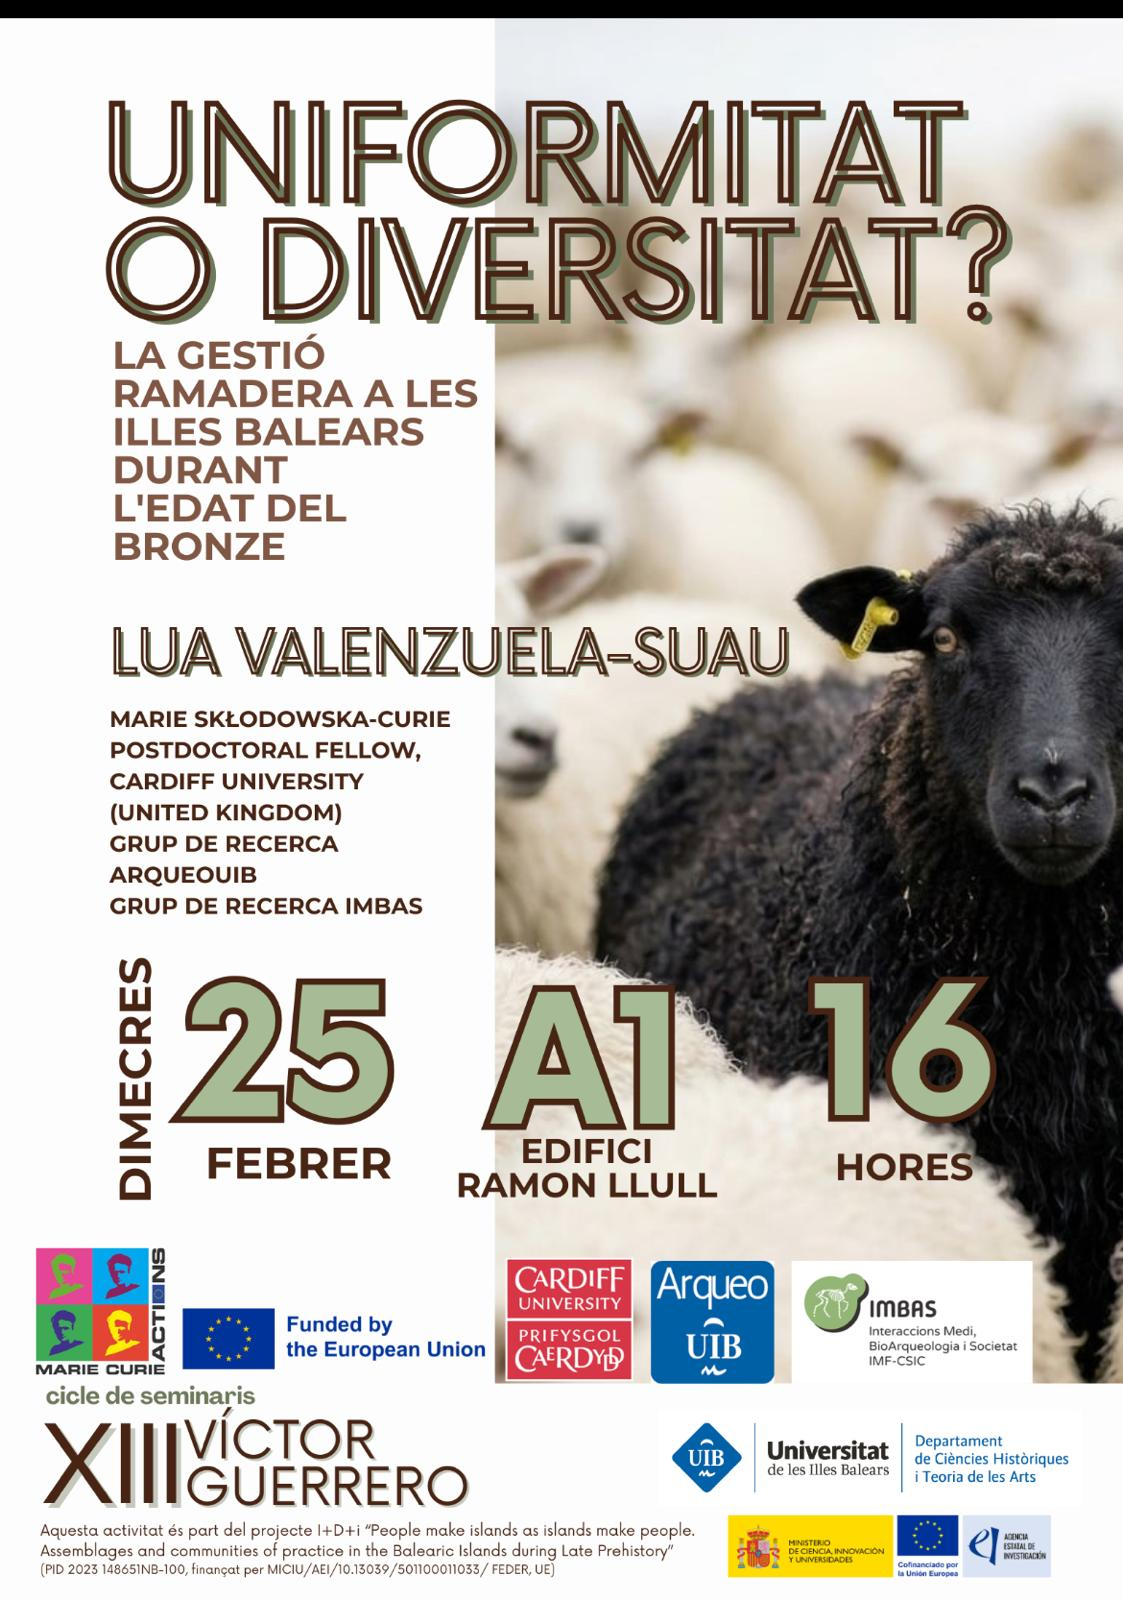
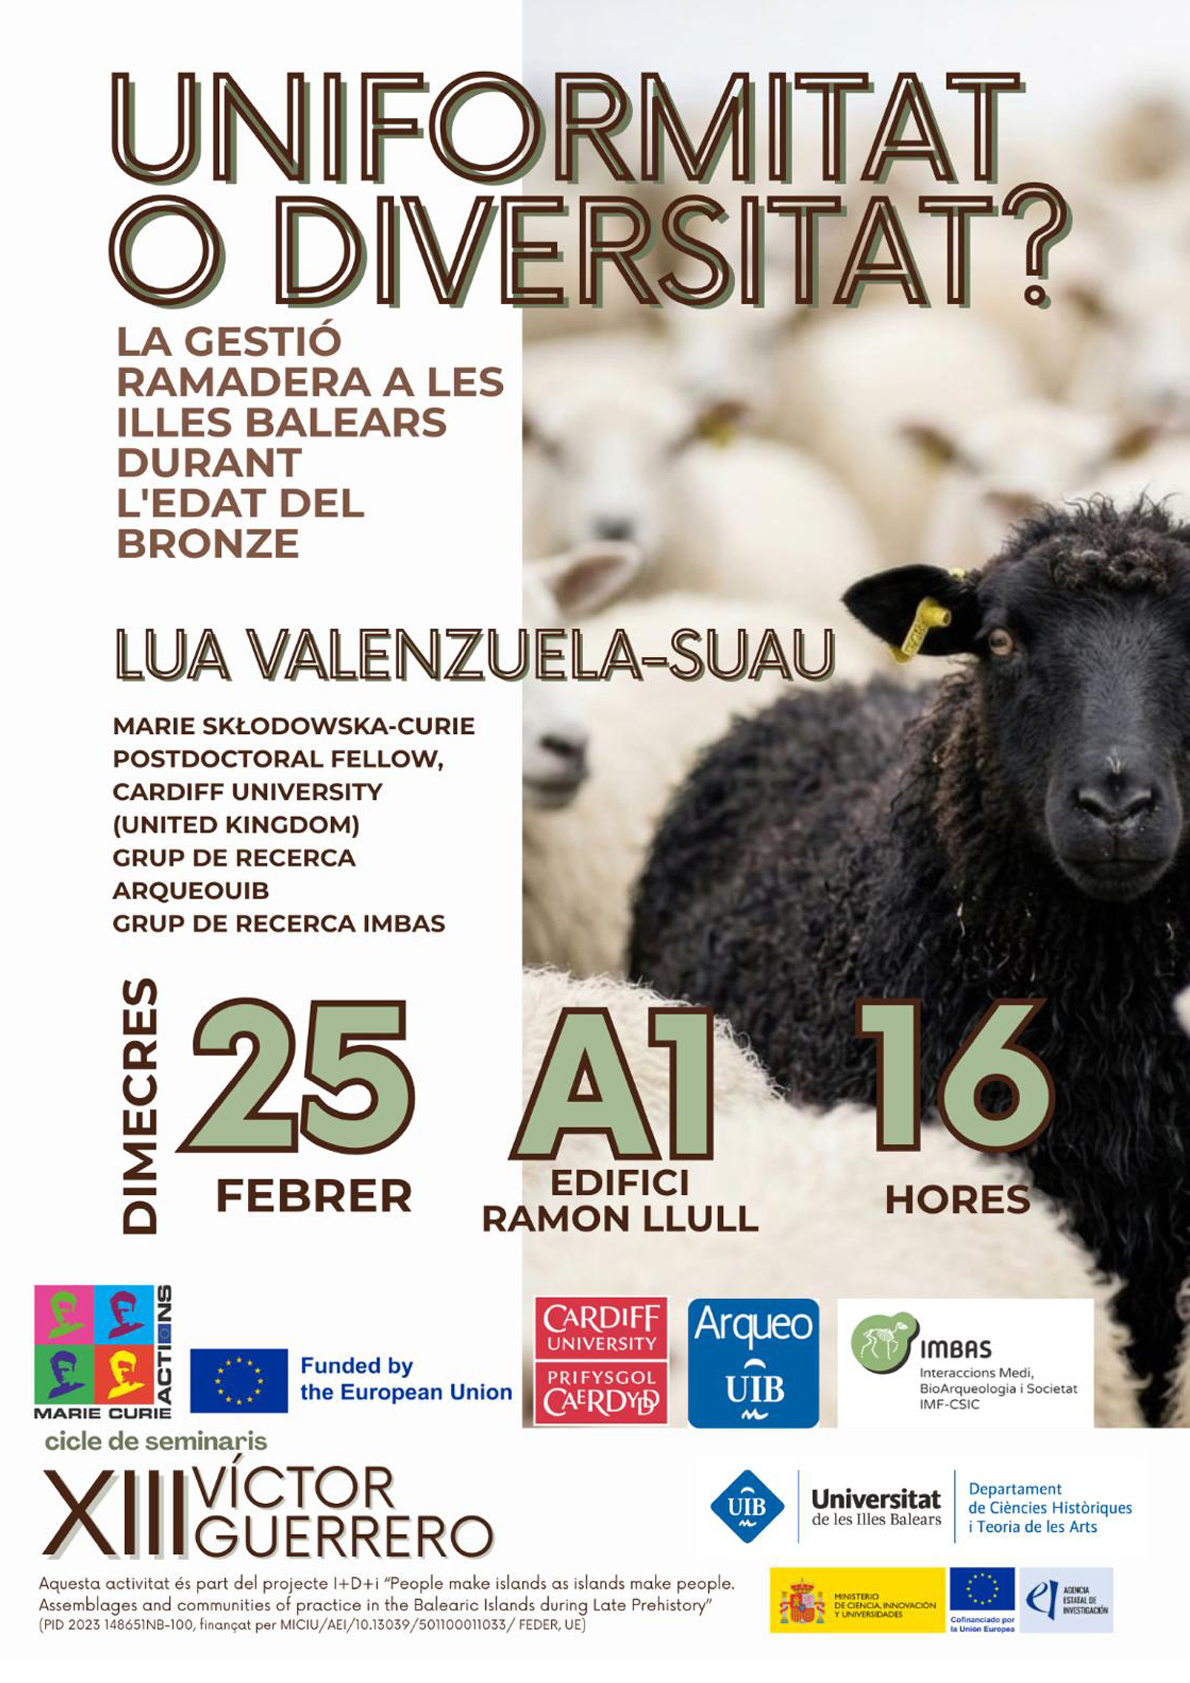
carrusel with news and change format title section

diff --git a/arqueo.html b/arqueo.html
@@ -8,6 +8,19 @@
     <link rel="preconnect" href="https://fonts.gstatic.com" crossorigin>
     <link href="https://fonts.googleapis.com/css2?family=Cormorant+Garamond:ital,wght@0,300;0,400;0,600;1,300;1,400&family=DM+Sans:wght@300;400;500&display=swap" rel="stylesheet">
     <link rel="stylesheet" href="style.css">
+    <style>
+        .news-carousel{position:relative;margin-top:32px}
+        .news-track{overflow:hidden}
+        .news-slides{display:flex;transition:transform 0.5s ease}
+        .news-slides > article{flex:0 0 100%;min-width:0}
+        .carousel-btn{position:absolute;top:50%;transform:translateY(-50%);background:rgba(0,0,0,0.6);color:#fff;border:none;width:48px;height:48px;border-radius:50%;font-size:1.5rem;cursor:pointer;z-index:5;display:flex;align-items:center;justify-content:center;transition:background 0.2s}
+        .carousel-btn:hover{background:rgba(0,0,0,0.85)}
+        .carousel-btn.prev{left:16px}
+        .carousel-btn.next{right:16px}
+        .carousel-dots{display:flex;justify-content:center;gap:12px;margin-top:24px}
+        .carousel-dot{width:10px;height:10px;border-radius:50%;border:none;background:rgba(0,0,0,0.2);cursor:pointer;padding:0;transition:background 0.2s}
+        .carousel-dot.active{background:var(--accent-light,#7a8a4f)}
+    </style>
 </head>
 <body>
 
@@ -19,7 +32,7 @@
     </div>
     <ul class="nav-links">
         <li><a href="ovis.html">OVIS</a></li>
-        <li><a href="arqueo.html" class="active">Archaeology News</a></li>
+        <li><a href="arqueo.html" class="active">Project News</a></li>
         <li><a href="institutions.html">Institutions</a></li>
         <li><a href="contact.html">Contact</a></li>
     </ul>
@@ -37,7 +50,7 @@
 <div class="mobile-menu" id="mobileMenu">
     <ul>
         <li><a href="ovis.html">OVIS</a></li>
-        <li><a href="arqueo.html">Archaeology News</a></li>
+        <li><a href="arqueo.html">Project News</a></li>
         <li><a href="institutions.html">Institutions</a></li>
         <li><a href="contact.html">Contact</a></li>
     </ul>
@@ -55,45 +68,56 @@
 <!-- MAIN CONTENT -->
 <section class="subpage-section">
 
-    <div class="section-header">
-        <p class="section-eyebrow">Project News</p>
-        <h2 class="section-title">Latest Updates</h2>
+    <div class="section-header" style="text-align:center;margin-bottom:48px">
+        <p class="section-eyebrow" style="font-size:1rem;letter-spacing:0.3em;font-weight:500">PROJECT NEWS</p>
+        <h2 class="section-title" style="font-size:clamp(2.5rem,5vw,4rem);font-weight:600;margin-top:12px">Latest Updates</h2>
+        <div style="width:80px;height:3px;background:var(--accent-light,#7a8a4f);margin:24px auto 0"></div>
     </div>
 
-    <div style="display:grid;gap:64px;margin-top:32px">
+    <div class="news-carousel">
+        <button class="carousel-btn prev" id="carouselPrev" aria-label="Previous">‹</button>
+        <button class="carousel-btn next" id="carouselNext" aria-label="Next">›</button>
 
-        <!-- News 1: XIII Víctor Guerrero Seminar (most recent) -->
-        <article class="arqueo-main-article">
-    <div class="arqueo-main-img" style="background-image: url('img/poster1.jpg')"></div>
-    <div class="arqueo-main-body">
-        <span class="news-tag">Conferència</span>
-        <time>20–21 de febrer de 2026</time>
-        <h2>OVIS participa a les X Jornades d'Arqueologia de les Illes Balears</h2>
-        <p>El passat mes de febrer varen tenir lloc a Palma (Mallorca, Illes Balears, Espanya) les X Jornades d'Arqueologia de les Illes Balears, organitzades per la Secció d'Arqueologia del Col·legi d'Historiadors de Balears.</p>
-        <p>En el marc de les jornades, es va presentar el projecte OVIS davant la comunitat arqueològica que treballa a les Illes Balears mitjançant el pòster titulat "OVIS: Origins of Variability in Island Systems. Unraveling livestock diet and mobility across the Bronze-Iron Age transition". La presentació va anar a càrrec de la research fellow Dra. Lua Valenzuela-Suau i del supervisor del projecte, Prof. Richard Madgwick. Durant la sessió, es varen poder exposar els principals objectius del projecte, la metodologia seleccionada i els resultats esperats.</p>
-        <p>Igualment, es varen presentar diversos estudis arqueozoològics previs que constitueixen el punt de partida de la recerca desenvolupada dins el projecte OVIS. Concretament, es varen donar a conèixer els treballs "Explotació ramadera i gestió de l'entorn al poblat de navetes de Clariana (Ciutadella, Menorca): integració de dades faunístiques, isotòpiques i de microdesgast dentari" (Dra. Lua Valenzuela-Suau i Dr. Damià Ramis) i "Animals i ritualitat a la cova núm. 45 de Calescoves (Alaior, Menorca)" (Dra. Lua Valenzuela-Suau, Dra. Sonia Carbonell i Dra. Margalida Antònia Coll).</p>
-        <p>La participació en aquestes jornades ha representat una excel·lent oportunitat per compartir els primers plantejaments del projecte OVIS i establir espais de debat amb investigadors i investigadores especialitzats en la prehistòria balear.</p>
-        <figure style="margin-top:32px">
-            <img src="img/poster-ovis.jpg" alt="Pòster del projecte OVIS presentat a les X Jornades d'Arqueologia de les Illes Balears" style="width:100%;height:auto;display:block;border:1px solid rgba(0,0,0,0.08)">
-            <figcaption style="margin-top:12px;font-size:0.9rem;font-style:italic;opacity:0.7;text-align:center">Pòster presentat a les X Jornades d'Arqueologia de les Illes Balears.</figcaption>
-        </figure>
-    </div>
-</article>
+        <div class="news-track">
+            <div class="news-slides" id="newsSlides">
 
-        <!-- News 2: X Jornades d'Arqueologia de les Illes Balears -->
-      <article class="arqueo-main-article">
-    <div class="arqueo-main-img" style="background-image: url('img/poster3.jpg')"></div>
-    <div class="arqueo-main-body">
-        <span class="news-tag">Conferència</span>
-        <time>25 de febrer de 2026</time>
-        <h2>Participem al XIII Cicle de Seminaris Víctor Guerrero de la Universitat de les Illes Balears</h2>
-        <p>El passat mes de febrer vam tenir l'oportunitat de participar en el "XIII Cicle de Seminaris Víctor Guerrero", organitzat pel Departament de Ciències Històriques i Teoria de les Arts de la Universitat de les Illes Balears.</p>
-        <p>La conferència, titulada "Uniformitat o diversitat? La gestió ramadera a les Illes Balears durant l'Edat del Bronze", va servir per presentar un estat de la qüestió sobre els coneixements actuals relacionats amb la gestió ramadera durant aquest període prehistòric. La ponència va posar especial atenció a les dades obtingudes mitjançant la zooarqueologia, els isòtops estables i els estudis de microdesgast dentari, eines clau per entendre l'alimentació, la mobilitat i les estratègies de maneig dels ramats.</p>
-        <p>Aquesta recerca constitueix el punt de partida del projecte OVIS, centrat en l'estudi de les pràctiques ramaderes i les dinàmiques socioeconòmiques de les comunitats de les Illes Balears durant la prehistòria recent.</p>
-        <p>Volem agrair a l'organització la invitació i l'oportunitat de compartir i debatre aquestes línies de recerca en el marc del seminari.</p>
-    </div>
-</article>
+                <!-- News 1: X Jornades d'Arqueologia -->
+                <article class="arqueo-main-article">
+                    <img src="img/poster1.jpg" alt="Cartell X Jornades d'Arqueologia de les Illes Balears" style="width:100%;height:auto;display:block">
+                    <div class="arqueo-main-body">
+                        <span class="news-tag">Conferència</span>
+                        <time>20–21 de febrer de 2026</time>
+                        <h2>OVIS participa a les X Jornades d'Arqueologia de les Illes Balears</h2>
+                        <p>El passat mes de febrer varen tenir lloc a Palma (Mallorca, Illes Balears, Espanya) les X Jornades d'Arqueologia de les Illes Balears, organitzades per la Secció d'Arqueologia del Col·legi d'Historiadors de Balears.</p>
+                        <p>En el marc de les jornades, es va presentar el projecte OVIS davant la comunitat arqueològica que treballa a les Illes Balears mitjançant el pòster titulat "OVIS: Origins of Variability in Island Systems. Unraveling livestock diet and mobility across the Bronze-Iron Age transition". La presentació va anar a càrrec de la research fellow Dra. Lua Valenzuela-Suau i del supervisor del projecte, Prof. Richard Madgwick. Durant la sessió, es varen poder exposar els principals objectius del projecte, la metodologia seleccionada i els resultats esperats.</p>
+                        <p>Igualment, es varen presentar diversos estudis arqueozoològics previs que constitueixen el punt de partida de la recerca desenvolupada dins el projecte OVIS. Concretament, es varen donar a conèixer els treballs "Explotació ramadera i gestió de l'entorn al poblat de navetes de Clariana (Ciutadella, Menorca): integració de dades faunístiques, isotòpiques i de microdesgast dentari" (Dra. Lua Valenzuela-Suau i Dr. Damià Ramis) i "Animals i ritualitat a la cova núm. 45 de Calescoves (Alaior, Menorca)" (Dra. Lua Valenzuela-Suau, Dra. Sonia Carbonell i Dra. Margalida Antònia Coll).</p>
+                        <p>La participació en aquestes jornades ha representat una excel·lent oportunitat per compartir els primers plantejaments del projecte OVIS i establir espais de debat amb investigadors i investigadores especialitzats en la prehistòria balear.</p>
+                    </div>
+                </article>
 
+                <!-- News 2: XIII Cicle Víctor Guerrero -->
+                <article class="arqueo-main-article">
+                    <img src="img/poster3.jpeg" alt="Cartell XIII Cicle Víctor Guerrero" style="width:100%;height:auto;display:block">
+                    <div class="arqueo-main-body">
+                        <span class="news-tag">Conferència</span>
+                        <time>25 de febrer de 2026</time>
+                        <h2>Participem al XIII Cicle de Seminaris Víctor Guerrero de la Universitat de les Illes Balears</h2>
+                        <p>El passat mes de febrer vam tenir l'oportunitat de participar en el "XIII Cicle de Seminaris Víctor Guerrero", organitzat pel Departament de Ciències Històriques i Teoria de les Arts de la Universitat de les Illes Balears.</p>
+                        <p>La conferència, titulada "Uniformitat o diversitat? La gestió ramadera a les Illes Balears durant l'Edat del Bronze", va servir per presentar un estat de la qüestió sobre els coneixements actuals relacionats amb la gestió ramadera durant aquest període prehistòric. La ponència va posar especial atenció a les dades obtingudes mitjançant la zooarqueologia, els isòtops estables i els estudis de microdesgast dentari, eines clau per entendre l'alimentació, la mobilitat i les estratègies de maneig dels ramats.</p>
+                        <p>Aquesta recerca constitueix el punt de partida del projecte OVIS, centrat en l'estudi de les pràctiques ramaderes i les dinàmiques socioeconòmiques de les comunitats de les Illes Balears durant la prehistòria recent.</p>
+                        <p>Volem agrair a l'organització la invitació i l'oportunitat de compartir i debatre aquestes línies de recerca en el marc del seminari.</p>
+                    </div>
+                </article>
+
+                <!-- Slide 3: només pòster -->
+                <article class="arqueo-main-article">
+                    <img src="img/poster2.jpg" alt="Pòster del projecte OVIS" style="width:100%;height:auto;display:block">
+                </article>
+
+            </div>
+        </div>
+
+        <div class="carousel-dots" id="carouselDots"></div>
     </div>
 
 </section>
@@ -123,5 +147,31 @@
 </footer>
 
 <script src="script.js"></script>
+<script>
+(function(){
+    const slides = document.getElementById('newsSlides');
+    const total = slides.children.length;
+    const dotsContainer = document.getElementById('carouselDots');
+    let current = 0;
+
+    for(let i = 0; i < total; i++){
+        const dot = document.createElement('button');
+        dot.className = 'carousel-dot' + (i === 0 ? ' active' : '');
+        dot.addEventListener('click', () => goTo(i));
+        dotsContainer.appendChild(dot);
+    }
+
+    function goTo(i){
+        current = (i + total) % total;
+        slides.style.transform = 'translateX(-' + (current * 100) + '%)';
+        dotsContainer.querySelectorAll('.carousel-dot').forEach((d, idx) => {
+            d.classList.toggle('active', idx === current);
+        });
+    }
+
+    document.getElementById('carouselPrev').addEventListener('click', () => goTo(current - 1));
+    document.getElementById('carouselNext').addEventListener('click', () => goTo(current + 1));
+})();
+</script>
 </body>
 </html>
